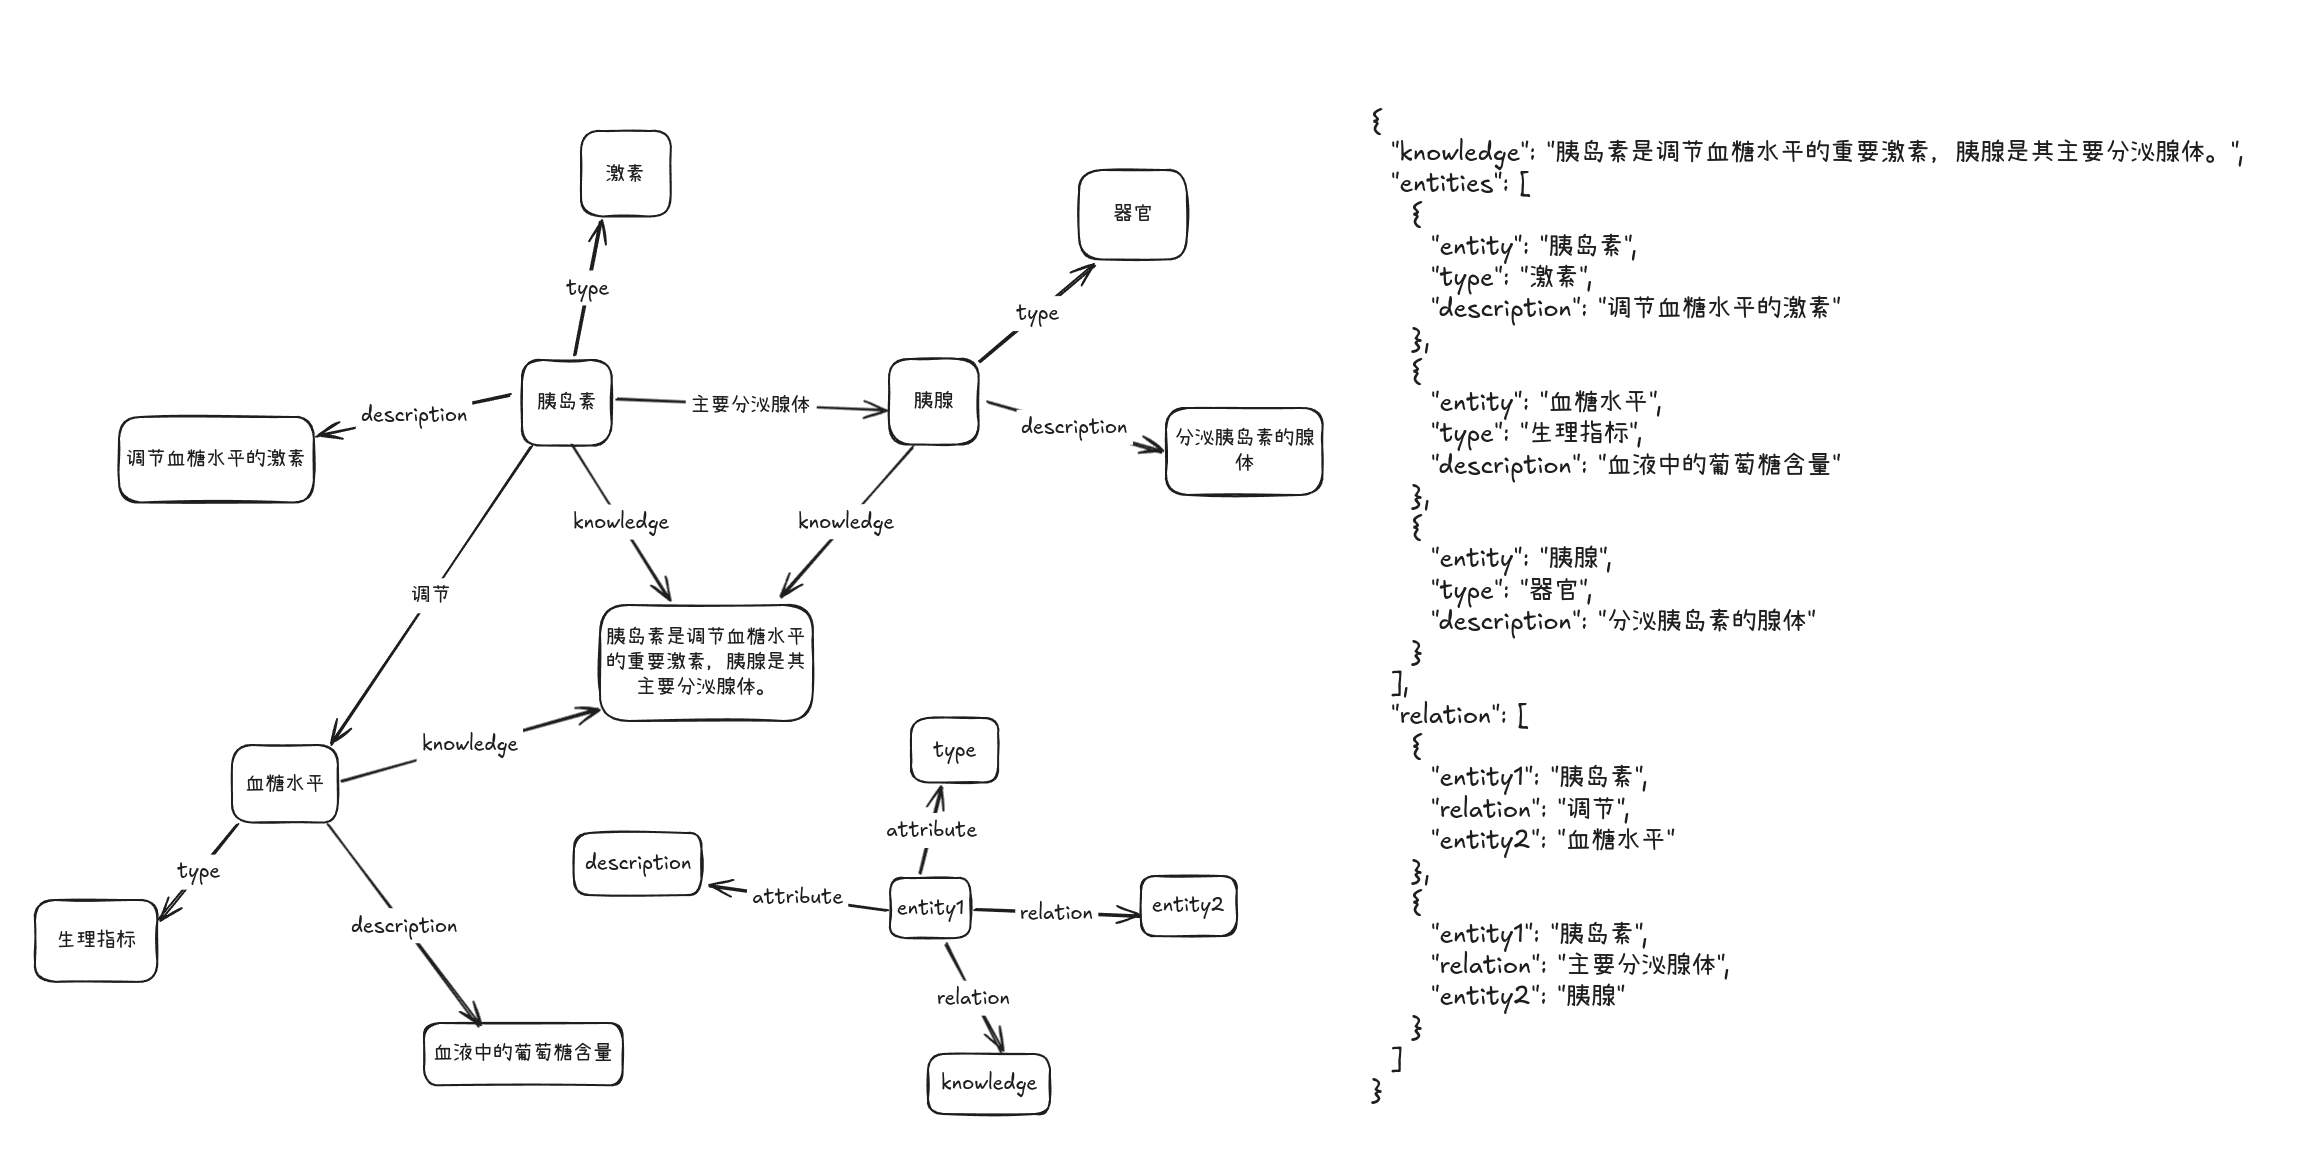
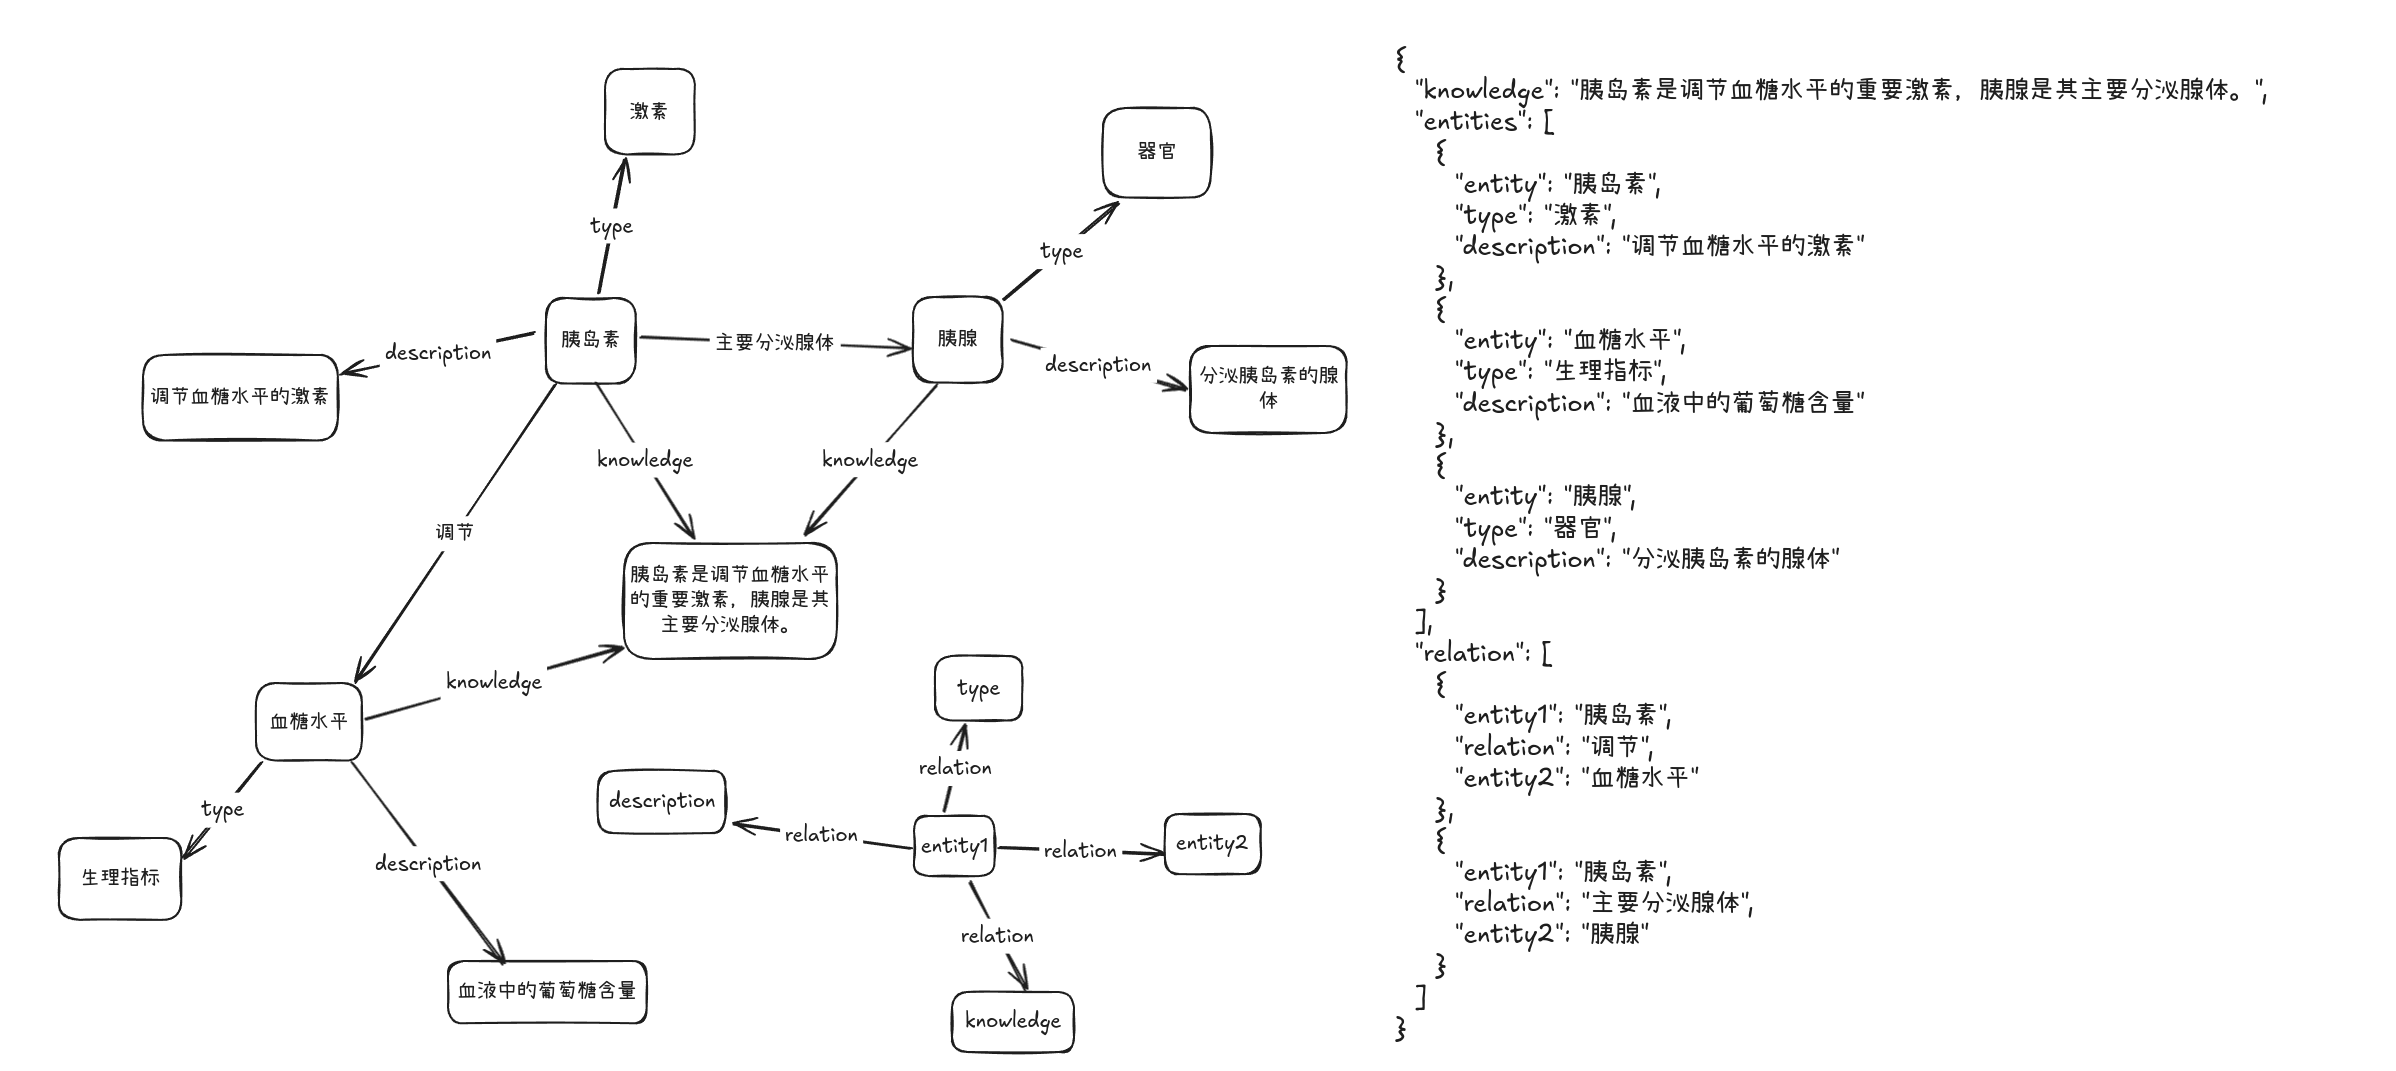
update

diff --git a/dataProcess/Neo4jBuilder.py b/dataProcess/Neo4jBuilder.py
@@ -57,11 +57,15 @@ if __name__ == "__main__":
             entity_type = f"{entitiy['type']}"
             description = f"{entitiy['description']}"
     
-            neo4j_handler.create_node(entity_name=entity_name, entity_type=entity_type)
+            neo4j_handler.create_node(entity_name=entity_name)
             neo4j_handler.create_node(description)
+            neo4j_handler.create_node(entity_type)
             if entity_name and description:
                 neo4j_handler.create_relationship(entity1_name=entity_name, relation_type='description', entity2_name=description)
-    
+
+            if entity_name and entity_type:
+                neo4j_handler.create_relationship(entity1_name=entity_name, relation_type='type', entity2_name=entity_type)
+            
             if knowledge != '' and entity_name and knowledge:
                 neo4j_handler.create_relationship(entity1_name=entity_name, relation_type='knowledge', entity2_name=knowledge)
     

diff --git a/README.md b/README.md
@@ -172,7 +172,7 @@ Neo4j作为一个图数据库，具有更好的图谱检索能力以及更严格
 
 ![graph](data/graph.png)
 
-我们以`relation`、`entity`、`description`为实体(由于不同知识点下同一个实体的描述的方面不一致，故我们构建多个描述实体以获取更为全面的描述),`type`为实体属性，构建实体知识指向和实体属性关系，以便后续进行知识检索
+我们以`relation`、`entity`、`description`、`type`为实体(由于不同知识点下同一个实体的描述的方面不一致，故我们构建多个描述实体以获取更为全面的描述),构建实体知识指向和实体属性关系，以便后续进行知识检索
 
 
 
